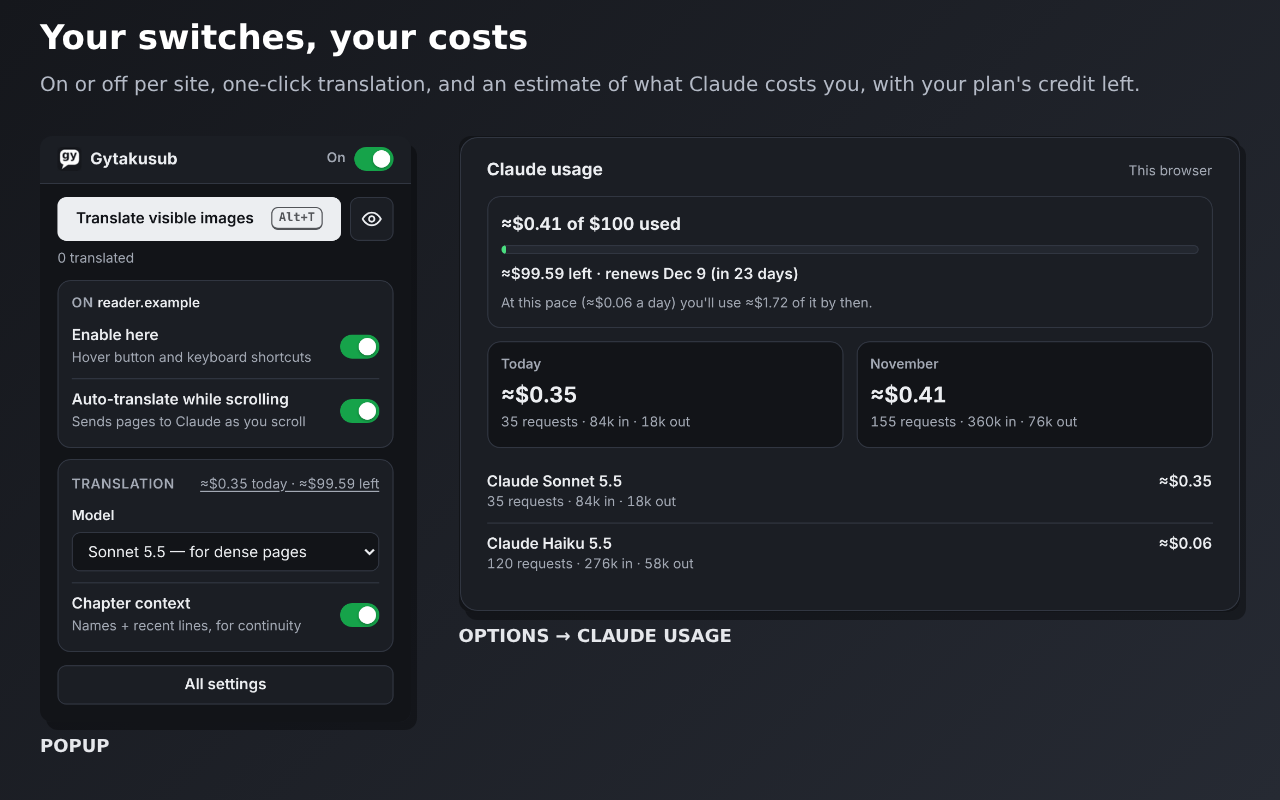
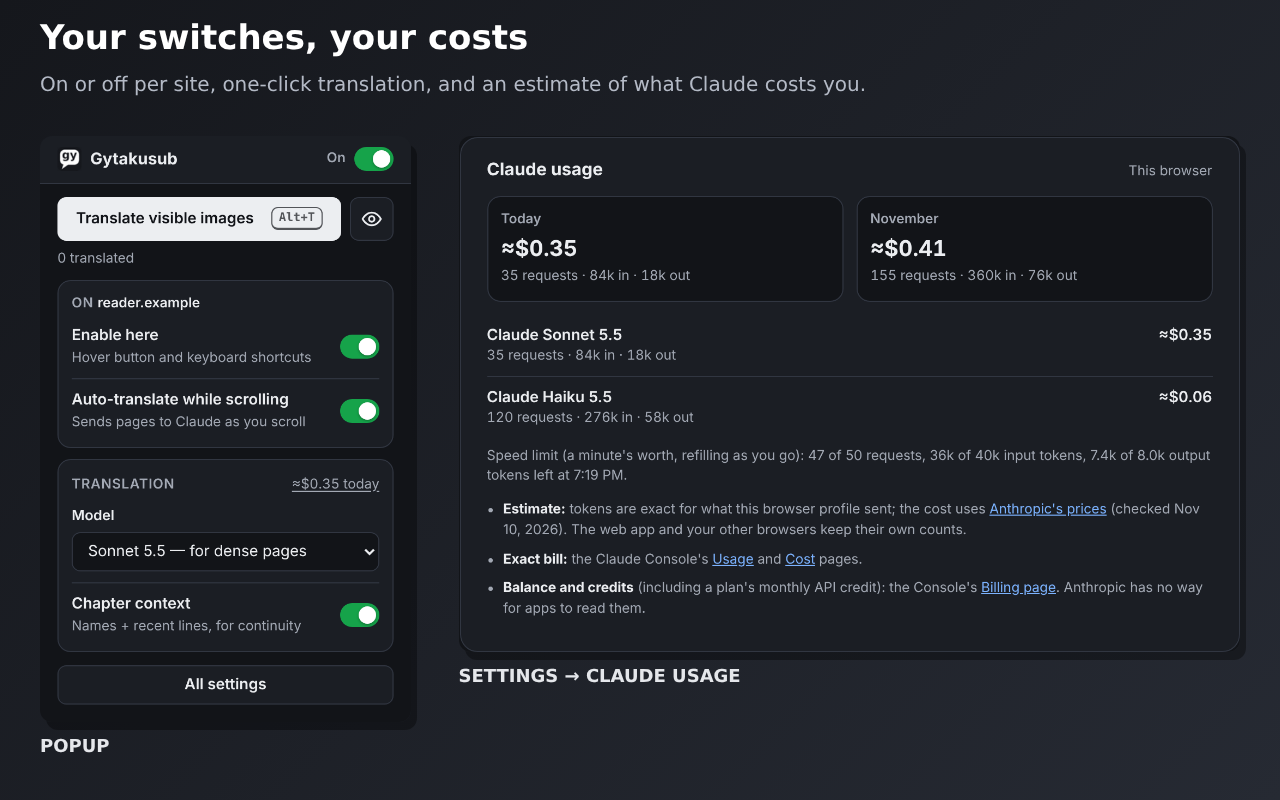
2.7.0: remove the monthly API credit meter
The meter subtracted only this browser's spending from an amount the
user typed, so with the web app or another browser in use "left" was
always too high, and nothing can correct it: no Anthropic API returns a
balance, plan or promotional credit (the Usage & Cost Admin API reports
usage and cost only, and isn't available to individual accounts).

- Extension and web app: plan, amount and renewal fields, the meter
  and "≈$… left" are gone; Claude usage links the Console's Billing
  page for the balance. Old values are removed on update / ignored.
- Store screenshot 5 regenerated (usage card now shows its notes).
- ADR 0007 updated; privacy policy, READMEs, listing, changelog.

Claude-Session: https://claude.ai/code/session_01HC7DG1xgeqgY9rhdzbcHRJ

diff --git a/extension/usage.js b/extension/usage.js
@@ -131,72 +131,11 @@ export function summary(log, at = Date.now()) {
   };
 }
 
-// ---------- the monthly API credit of a Max or Team plan ----------
-// Anthropic: Max 5x includes $100 and Max 20x $200 of Claude API credit a month (Team: up to $500,
-// pooled); the credit refreshes each billing cycle with no rollover, is spent before purchased
-// credits, and when it is gone (and nothing was bought) API requests stop until the next credit.
-// There is no API for the balance: the Console's Billing page shows the amount and expiry date.
-// So the reader tells the app the plan and the renewal date, and the app sets this browser's own
-// spending against it.
-export const CREDIT_SOURCE = "https://platform.claude.com/docs/en/about-claude/api-credits-for-subscribers";
-export const CREDIT_PLANS = [
-  { id: "none", label: "None, or I pay as I go", amount: 0 },
-  { id: "max5x", label: "Claude Max 5x: $100 a month", amount: 100 },
-  { id: "max20x", label: "Claude Max 20x: $200 a month", amount: 200 },
-  { id: "custom", label: "Team or another amount", amount: null },
-];
-
-/** The monthly credit in USD from settings {creditPlan, creditCustom}, or 0. */
-export function creditAmount(settings = {}) {
-  const plan = CREDIT_PLANS.find((p) => p.id === settings.creditPlan);
-  if (!plan) return 0;
-  return plan.amount ?? Math.max(0, Number(settings.creditCustom) || 0);
-}
-
-/**
- * This browser's spending against the monthly credit, or null when no credit is set.
- * {amount, used, left, share, start, renews, daysLeft, pace, projected, runsOut, guessedDate}
- * - The cycle ends on the renewal date the reader gave ("YYYY-MM-DD"; a past one moves on by
- *   months); without one, the calendar month is assumed (guessedDate: true).
- * - pace: USD a day over the last seven days of the cycle (fewer early in a cycle).
- * - runsOut: the day the credit would run out at that pace, if before the renewal.
- */
-export function creditStatus(log, settings, at = Date.now()) {
-  const amount = creditAmount(settings);
-  if (!amount) return null;
-  const now = new Date(at);
-  let renews = /^\d{4}-\d{2}-\d{2}$/.test(settings.creditRenews || "") ? new Date(settings.creditRenews + "T00:00:00Z") : null;
-  const guessedDate = !renews;
-  if (!renews) renews = new Date(Date.UTC(now.getUTCFullYear(), now.getUTCMonth() + 1, 1));
-  while (renews <= now) renews = new Date(Date.UTC(renews.getUTCFullYear(), renews.getUTCMonth() + 1, renews.getUTCDate()));
-  const start = new Date(Date.UTC(renews.getUTCFullYear(), renews.getUTCMonth() - 1, renews.getUTCDate()));
-  const days = (from) => Object.keys(log?.days || {}).filter((d) => d >= utcDay(from) && d <= utcDay(at));
-  const used = totals(log, days(start)).cost;
-  const span = Math.min(7, Math.max(1, (at - start) / 864e5));
-  const pace = totals(log, days(Math.max(+start, at - span * 864e5))).cost / span;
-  const daysLeft = (renews - at) / 864e5;
-  const left = Math.max(0, amount - used);
-  const runsOutIn = pace > 0 ? left / pace : Infinity;
-  return {
-    amount, used, left, share: Math.min(1, used / amount), start, renews, daysLeft: Math.ceil(daysLeft), pace,
-    projected: used + pace * daysLeft, runsOut: used >= amount ? now : runsOutIn < daysLeft ? new Date(at + runsOutIn * 864e5) : null, guessedDate,
-  };
-}
-
-/** The credit in plain words: {headline, left, pace, state}. */
-export function creditWords(c, fmtDate = (d) => d.toLocaleDateString([], { month: "short", day: "numeric", timeZone: "UTC" })) {
-  const inDays = (n) => (n <= 1 ? "tomorrow" : `in ${n} days`);
-  const renew = `${c.guessedDate ? "probably renews" : "renews"} ${fmtDate(c.renews)} (${inDays(c.daysLeft)})`;
-  if (c.used >= c.amount) {
-    return { headline: `≈${fmtUsd(c.used)} of ${fmtUsd(c.amount)} used`, left: `Used up: ${renew}`, pace: "Claude now uses any credits you bought. With none left, requests stop until it renews.", state: "Used up" };
-  }
-  const pace = c.pace > 0
-    ? c.runsOut
-      ? `At this pace (≈${fmtUsd(c.pace)} a day) it runs out around ${fmtDate(c.runsOut)}, before it renews.`
-      : `At this pace (≈${fmtUsd(c.pace)} a day) you'll use ≈${fmtUsd(c.projected)} of it by then.`
-    : "Nothing spent in the last few days.";
-  return { headline: `≈${fmtUsd(c.used)} of ${fmtUsd(c.amount)} used`, left: `≈${fmtUsd(c.left)} left · ${renew}`, pace, state: c.runsOut ? "Runs out early" : c.share >= 0.8 ? "Almost used" : "" };
-}
+// No monthly-credit tracking: Anthropic has no way for an app to read a balance, plan or
+// promotional credit (the Usage & Cost Admin API reports usage and cost only, needs an Admin
+// key, and isn't available to individual Console accounts). A meter fed by this browser's own
+// records would overstate what's left whenever the web app or another browser also translates,
+// so the panel shows exact spend here and points to the Console's Billing page for the balance.
 
 /** The rate limit in plain words, or "" (headers from the last answer, at most five minutes old). */
 export function limitWords(limits, fmtTime = (t) => new Date(t).toLocaleTimeString([], { hour: "numeric", minute: "2-digit" })) {

diff --git a/web/app.js b/web/app.js
@@ -2,7 +2,7 @@
 import { loadSettings, saveSettings, loadImage, blobToDataUrl, translateImage, renderPage, testKey } from "./translator.js";
 import { isConnected, connectFetcher, loadChapter, fetchPageImage, generateKey, connectionLink, readConnectionLink, fetcherBase, usageToday, onUsage, resetTime, FREE_DAILY, loadCloudUsage } from "./fetcher-client.js";
 import { MODELS } from "./prompt.js";
-import { summary, fmtUsd, fmtTokens, dayStart, PRICES_CHECKED, PRICE_SOURCE, CREDIT_PLANS, creditStatus, creditWords, limitWords } from "./usage.js";
+import { summary, fmtUsd, fmtTokens, dayStart, PRICES_CHECKED, PRICE_SOURCE, limitWords } from "./usage.js";
 import { readClaudeUsage, onClaudeUsage, clearClaudeUsage } from "./claude-usage.js";
 import qrcode from "./lib/qrcode.mjs";
 
@@ -131,34 +131,12 @@ function showClaudeUsage(log = readClaudeUsage()) {
   const speed = limitWords(limits);
   $("cuLimits").hidden = !speed;
   $("cuLimits").textContent = speed;
-  showCredit(log);
   $("cuChecked").textContent = new Date(PRICES_CHECKED + "T00:00:00Z").toLocaleDateString([], { day: "numeric", month: "short", year: "numeric", timeZone: "UTC" });
   $("cuPriceLink").href = PRICE_SOURCE;
   $("cuDayStart").textContent = dayStart();
   updateToolbar();
 }
 onClaudeUsage(showClaudeUsage);
-// The monthly API credit, with the form's values while Settings is open (a preview before Save).
-function creditSettings() {
-  return $("settings").open ? { creditPlan: $("sCreditPlan").value, creditCustom: $("sCreditCustom").value, creditRenews: $("sCreditRenews").value } : settings;
-}
-function showCredit(log = readClaudeUsage()) {
-  const c = creditStatus(log, creditSettings());
-  $("cuCredit").hidden = !c;
-  if (!c) return;
-  const w = creditWords(c);
-  $("cuCreditFigure").textContent = w.headline;
-  $("cuCreditState").textContent = w.state; $("cuCreditState").hidden = !w.state;
-  $("cuCreditLeft").textContent = w.left;
-  $("cuCreditPace").textContent = w.pace;
-  const m = $("cuCreditMeter");
-  m.setAttribute("aria-valuenow", Math.round(c.share * 100));
-  m.setAttribute("aria-valuetext", `${w.headline}. ${w.left}.`);
-  m.classList.toggle("warn", !!w.state); m.classList.toggle("used", c.used > 0);
-  m.firstElementChild.style.width = `${c.share * 100}%`;
-}
-$("sCreditPlan").innerHTML = CREDIT_PLANS.map((p) => `<option value="${p.id}">${p.label}</option>`).join("");
-for (const id of ["sCreditPlan", "sCreditCustom", "sCreditRenews"]) $(id).addEventListener("input", () => { $("sCreditCustomField").hidden = $("sCreditPlan").value !== "custom"; showCredit(); });
 $("cuClear").onclick = () => {
   if (!confirm("Clear this browser's Claude usage history? The Claude Console keeps its own records.")) return;
   clearClaudeUsage(); toast("Usage history cleared");
@@ -211,8 +189,7 @@ function updateToolbar() {
   $("toolbar").classList.toggle("hidden", list.length === 0);
   $("drop").classList.toggle("compact", currentMode === "shots" && list.length > 0);
   const today = summary(readClaudeUsage()).today;
-  const credit = creditStatus(readClaudeUsage(), settings);
-  $("progress").textContent = `${done} of ${list.length} translated${busy ? ` · ${busy} in progress` : ""}${today.requests ? ` · Claude today ≈ ${fmtUsd(today.cost)}` : ""}${credit ? ` · ≈${fmtUsd(credit.left)} credit left` : ""}`;
+  $("progress").textContent = `${done} of ${list.length} translated${busy ? ` · ${busy} in progress` : ""}${today.requests ? ` · Claude today ≈ ${fmtUsd(today.cost)}` : ""}`;
   $("pages").classList.toggle("spread", list.length > 1);
   $("pages").classList.toggle("rtl", !!settings.rtlSpreads);
 }
@@ -412,15 +389,12 @@ function fillSettings() {
   $("sApiKey").value = settings.apiKey; $("sModel").value = settings.model; $("sTargetLang").value = settings.targetLang;
   $("sGlossary").value = settings.glossary; $("sCustomPrompt").value = settings.customPrompt;
   $("sUseContext").checked = settings.useContext; $("sUppercase").checked = settings.uppercase; $("sRtl").checked = settings.rtlSpreads;
-  $("sCreditPlan").value = settings.creditPlan || "none"; $("sCreditCustom").value = settings.creditCustom || ""; $("sCreditRenews").value = settings.creditRenews || "";
-  $("sCreditCustomField").hidden = $("sCreditPlan").value !== "custom";
   $("sMsg").textContent = "";
 }
 function readSettings() {
   return { ...settings, apiKey: $("sApiKey").value.trim(), model: $("sModel").value, targetLang: $("sTargetLang").value.trim() || "English",
     glossary: $("sGlossary").value, customPrompt: $("sCustomPrompt").value, useContext: $("sUseContext").checked,
-    uppercase: $("sUppercase").checked, rtlSpreads: $("sRtl").checked,
-    creditPlan: $("sCreditPlan").value, creditCustom: Number($("sCreditCustom").value) || 0, creditRenews: $("sCreditRenews").value };
+    uppercase: $("sUppercase").checked, rtlSpreads: $("sRtl").checked };
 }
 $("btnSettings").onclick = () => { fillSettings(); dlg.showModal(); };
 $("sShow").onclick = () => { const i = $("sApiKey"); i.type = i.type === "password" ? "text" : "password"; $("sShow").textContent = i.type === "password" ? "Show" : "Hide"; };

diff --git a/extension/options.html b/extension/options.html
@@ -16,7 +16,6 @@
   .card > .lede { color: var(--muted); font-size: var(--t-caption); margin-bottom: var(--s2); }
   .card .field { padding: var(--s3) 0; }
   .card .field + .field, .card .field + .option, .card .option + .field { border-top: 1px solid var(--border); }
-  .card .credit-fields .field { padding: var(--s2) 0; border-top: 0; }
   .option .btn { flex: none; }
   .savebar { position: sticky; bottom: 0; z-index: 1; margin-top: var(--s5); border-top: 1px solid var(--border); background: var(--surface); }
   .savebar-inner { max-width: 980px; margin: 0 auto; padding: var(--s3) var(--s4); display: flex; align-items: center; justify-content: flex-end; gap: var(--s3); }
@@ -93,12 +92,6 @@
 
       <section class="card" id="sec-usage" aria-labelledby="h-usage">
         <div class="sec-head"><h2 id="h-usage">Claude usage</h2><span class="source-badge">This browser</span></div>
-        <div id="cuCredit" class="credit" hidden>
-          <p class="credit-figure"><span id="cuCreditFigure"></span> <span id="cuCreditState" class="state-badge" hidden></span></p>
-          <div id="cuCreditMeter" class="meter" role="meter" aria-label="Monthly API credit used" aria-valuemin="0" aria-valuemax="100" aria-valuenow="0"><span class="meter-fill"></span></div>
-          <p id="cuCreditLeft" class="credit-left"></p>
-          <p id="cuCreditPace" class="hint"></p>
-        </div>
         <div class="stats">
           <div class="stat"><span class="stat-label">Today</span><span class="stat-value" id="cuTodayCost">$0</span><span class="stat-sub" id="cuTodaySub">No requests yet</span></div>
           <div class="stat"><span class="stat-label" id="cuMonthLabel">This month</span><span class="stat-value" id="cuMonthCost">$0</span><span class="stat-sub" id="cuMonthSub">No requests yet</span></div>
@@ -108,14 +101,9 @@
         <ul class="facts">
           <li><b>Estimate:</b> tokens are exact for what this browser profile sent; the cost uses <a id="cuPriceLink" href="https://platform.claude.com/docs/en/about-claude/pricing" target="_blank" rel="noopener">Anthropic's prices</a> (checked <span id="cuChecked"></span>). The web app and your other browsers keep their own counts.</li>
           <li><b>Exact bill:</b> the Claude Console's <a href="https://platform.claude.com/usage" target="_blank" rel="noopener">Usage</a> and <a href="https://platform.claude.com/cost" target="_blank" rel="noopener">Cost</a> pages.</li>
+          <li><b>Balance and credits</b> (including a plan's monthly API credit): the Console's <a href="https://platform.claude.com/settings/billing" target="_blank" rel="noopener">Billing page</a>. Anthropic has no way for apps to read them.</li>
           <li><b>Days</b> start at <span id="cuDayStart">midnight UTC</span> your time (midnight UTC), like Anthropic's usage reports.</li>
         </ul>
-        <div class="credit-fields">
-          <div class="field"><label class="field-label" for="creditPlan">Monthly API credit</label><select id="creditPlan"></select></div>
-          <div class="field" id="creditCustomField" hidden><label class="field-label" for="creditCustom">Amount, USD a month</label><input id="creditCustom" type="number" min="0" step="1" inputmode="decimal" /></div>
-          <div class="field"><label class="field-label" for="creditRenews">Renews on</label><input id="creditRenews" type="date" /></div>
-        </div>
-        <p class="hint">Claude Max and Team plans include API credit each month (<a href="https://platform.claude.com/docs/en/about-claude/api-credits-for-subscribers" target="_blank" rel="noopener">Anthropic</a>). The Claude Console's <a href="https://platform.claude.com/settings/billing" target="_blank" rel="noopener">Billing page</a> shows it under Promotional credits with its expiry date: that's the renewal date to put here.</p>
         <div class="row-end"><button id="cuClear" class="btn small danger" type="button">Clear usage history</button></div>
       </section>
 

diff --git a/web/index.html b/web/index.html
@@ -262,12 +262,6 @@
       </section>
       <section class="group" aria-labelledby="sgUsage">
         <div class="sec-head"><h3 id="sgUsage">Claude usage</h3><span class="source-badge">This browser</span></div>
-        <div id="cuCredit" class="credit" hidden>
-          <p class="credit-figure"><span id="cuCreditFigure"></span> <span id="cuCreditState" class="state-badge" hidden></span></p>
-          <div id="cuCreditMeter" class="meter" role="meter" aria-label="Monthly API credit used" aria-valuemin="0" aria-valuemax="100" aria-valuenow="0"><span class="meter-fill"></span></div>
-          <p id="cuCreditLeft" class="credit-left"></p>
-          <p id="cuCreditPace" class="hint"></p>
-        </div>
         <div class="stats">
           <div class="stat"><span class="stat-label">Today</span><span class="stat-value" id="cuTodayCost">$0</span><span class="stat-sub" id="cuTodaySub">No requests yet</span></div>
           <div class="stat"><span class="stat-label" id="cuMonthLabel">This month</span><span class="stat-value" id="cuMonthCost">$0</span><span class="stat-sub" id="cuMonthSub">No requests yet</span></div>
@@ -277,14 +271,9 @@
         <ul class="usage-facts small">
           <li><b>Estimate:</b> tokens are exact for what this browser sent; the cost uses <a id="cuPriceLink" href="https://platform.claude.com/docs/en/about-claude/pricing" target="_blank" rel="noopener">Anthropic's prices ↗</a> (checked <span id="cuChecked"></span>). The extension and your other devices keep their own counts.</li>
           <li><b>Exact bill:</b> the Claude Console's <a href="https://platform.claude.com/usage" target="_blank" rel="noopener">Usage ↗</a> and <a href="https://platform.claude.com/cost" target="_blank" rel="noopener">Cost ↗</a> pages.</li>
+          <li><b>Balance and credits</b> (including a plan's monthly API credit): the Console's <a href="https://platform.claude.com/settings/billing" target="_blank" rel="noopener">Billing page ↗</a>. Anthropic has no way for apps to read them.</li>
           <li><b>Days</b> start at <span id="cuDayStart">midnight UTC</span> your time (midnight UTC), like Anthropic's usage reports.</li>
         </ul>
-        <div class="credit-fields">
-          <label class="field">Monthly API credit <select id="sCreditPlan" name="credit-plan"></select></label>
-          <label class="field" id="sCreditCustomField" hidden>Amount, USD a month <input id="sCreditCustom" name="credit-amount" type="number" min="0" step="1" inputmode="decimal" /></label>
-          <label class="field">Renews on <input id="sCreditRenews" name="credit-renews" type="date" /></label>
-        </div>
-        <p class="hint">Claude Max and Team plans include API credit each month (<a href="https://platform.claude.com/docs/en/about-claude/api-credits-for-subscribers" target="_blank" rel="noopener">Anthropic ↗</a>). The Claude Console's <a href="https://platform.claude.com/settings/billing" target="_blank" rel="noopener">Billing page ↗</a> shows it under Promotional credits with its expiry date: that's the renewal date to put here.</p>
         <div class="row"><button type="button" id="cuClear" class="btn small danger">Clear usage history</button></div>
       </section>
       <section class="group" aria-labelledby="sgTranslate">

diff --git a/extension/options.js b/extension/options.js
@@ -5,10 +5,10 @@
 import { getSettings } from "./settings.js";
 import { apiHeaders, API_URL } from "./prompt.js";
 import { consentGiven, withdrawConsent, hasAccess, requestAccess, ALL_SITES, openWelcome } from "./access.js";
-import { addCall, emptyLog, limitsOf, explainApiError, summary, fmtUsd, fmtTokens, dayStart, PRICES_CHECKED, PRICE_SOURCE, CREDIT_PLANS, creditStatus, creditWords, limitWords } from "./usage.js";
+import { addCall, emptyLog, limitsOf, explainApiError, summary, fmtUsd, fmtTokens, dayStart, PRICES_CHECKED, PRICE_SOURCE, limitWords } from "./usage.js";
 
 const $ = (id) => document.getElementById(id);
-const FIELDS = ["model", "targetLang", "glossary", "customPrompt", "fontFamily", "excludedSites", "creditPlan", "creditCustom", "creditRenews"];
+const FIELDS = ["model", "targetLang", "glossary", "customPrompt", "fontFamily", "excludedSites"];
 const CHECKS = ["useContext", "includeSource", "uppercase", "syncApiKey", "debugOverlay", "peekOnHover", "useGpu"];
 
 function show(kind, text) {
@@ -36,7 +36,6 @@ async function load() {
   loaded = true;
   for (const id of ["save", "testKey"]) $(id).disabled = false;
   markDirty(false);
-  showCredit();
 }
 
 async function save() {
@@ -85,31 +84,11 @@ function showUsage(log) {
   $("cuLimits").hidden = !speed;
   $("cuLimits").textContent = speed;
   lastLog = log;
-  showCredit();
   $("cuChecked").textContent = new Date(PRICES_CHECKED + "T00:00:00Z").toLocaleDateString([], { day: "numeric", month: "short", year: "numeric", timeZone: "UTC" });
   $("cuPriceLink").href = PRICE_SOURCE;
   $("cuDayStart").textContent = dayStart();
 }
 let lastLog = null;
-// The monthly API credit, from the form (so a change shows before Save).
-function showCredit() {
-  const c = creditStatus(lastLog?.v === 1 ? lastLog : emptyLog(), { creditPlan: $("creditPlan").value, creditCustom: $("creditCustom").value, creditRenews: $("creditRenews").value });
-  $("creditCustomField").hidden = $("creditPlan").value !== "custom";
-  $("cuCredit").hidden = !c;
-  if (!c) return;
-  const w = creditWords(c);
-  $("cuCreditFigure").textContent = w.headline;
-  $("cuCreditState").textContent = w.state; $("cuCreditState").hidden = !w.state;
-  $("cuCreditLeft").textContent = w.left;
-  $("cuCreditPace").textContent = w.pace;
-  const m = $("cuCreditMeter");
-  m.setAttribute("aria-valuenow", Math.round(c.share * 100));
-  m.setAttribute("aria-valuetext", `${w.headline}. ${w.left}.`);
-  m.classList.toggle("warn", !!w.state); m.classList.toggle("used", c.used > 0);
-  m.firstElementChild.style.width = `${c.share * 100}%`;
-}
-$("creditPlan").innerHTML = CREDIT_PLANS.map((p) => `<option value="${p.id}">${p.label}</option>`).join("");
-for (const id of ["creditPlan", "creditCustom", "creditRenews"]) $(id).addEventListener("input", showCredit);
 chrome.storage.local.get({ claudeUsage: null }).then(({ claudeUsage }) => showUsage(claudeUsage));
 // the rate-limit line goes stale after five minutes without an answer
 setInterval(() => chrome.storage.local.get({ claudeUsage: null }).then(({ claudeUsage }) => showUsage(claudeUsage)), 60e3);

diff --git a/extension/popup.js b/extension/popup.js
@@ -2,7 +2,7 @@
 // service worker may be busy analysing a page for seconds (see settings.js), and
 // the popup must show the real settings the moment it opens.
 import { getSettings, ensureContentScript } from "./settings.js";
-import { summary, fmtUsd, creditStatus } from "./usage.js";
+import { summary, fmtUsd } from "./usage.js";
 import { consentGiven, hasAccess, requestAccess, openWelcome } from "./access.js";
 
 const $ = (id) => document.getElementById(id);
@@ -135,18 +135,13 @@ $("openSetup").onclick = () => { openWelcome(); window.close(); };
 $("allowAccess").onclick = () => { ensureAccess().then((ok) => { if (!ok) $("state").textContent = NO_ACCESS; else init(); }); };
 $("openOptions2").onclick = (e) => { e.preventDefault(); chrome.runtime.openOptionsPage(); };
 
-/** Today's Claude cost on this browser and the monthly credit left, next to the model (details: Options → Claude usage). */
-let usageLog = null, creditPrefs = {};
-function showUsage(log = usageLog) {
-  usageLog = log;
-  const today = summary(log?.v === 1 ? log : null).today, credit = creditStatus(log?.v === 1 ? log : null, creditPrefs);
-  const parts = [today.requests && `≈${fmtUsd(today.cost)} today`, credit && `≈${fmtUsd(credit.left)} left`].filter(Boolean);
-  $("usageToday").hidden = !parts.length;
-  $("usageToday").textContent = parts.join(" · ");
-  const spoken = [today.requests && `about ${fmtUsd(today.cost)} today`, credit && `about ${fmtUsd(credit.left)} of the monthly API credit left`].filter(Boolean);
-  $("usageToday").setAttribute("aria-label", spoken.length ? `Claude usage: ${spoken.join(", ")}. Open details.` : "");
+/** Today's Claude cost on this browser, next to the model (details: Settings → Claude usage). */
+function showUsage(log) {
+  const today = summary(log?.v === 1 ? log : null).today;
+  $("usageToday").hidden = !today.requests;
+  $("usageToday").textContent = today.requests ? `≈${fmtUsd(today.cost)} today` : "";
+  $("usageToday").setAttribute("aria-label", today.requests ? `Claude usage: about ${fmtUsd(today.cost)} today. Open details.` : "");
 }
-getSettings().then((s) => { creditPrefs = s; showUsage(); });
 chrome.storage.local.get({ claudeUsage: null }).then(({ claudeUsage }) => showUsage(claudeUsage));
 chrome.storage.onChanged.addListener((changes, area) => { if (area === "local" && changes.claudeUsage) showUsage(changes.claudeUsage.newValue); });
 $("usageToday").onclick = () => chrome.tabs.create({ url: chrome.runtime.getURL("options.html#sec-usage") });

diff --git a/web/privacy.html b/web/privacy.html
@@ -28,7 +28,6 @@
   <li><strong>Your API key.</strong> Stored in your browser's extension storage (device-local by default; optionally in your browser's sync storage if you turn that on) or, in the web app, in the browser's localStorage. It is sent only to <code>api.anthropic.com</code> as the authentication header.</li>
   <li><strong>Settings, glossary, and chapter context.</strong> Your model choice, target language, glossary, list of enabled sites, and the names and recent translated lines used for consistency are stored locally in the browser (and in browser sync storage for settings, if your browser syncs). Chapter context is per tab and discarded when the tab closes.</li>
   <li><strong>Claude usage figures.</strong> For each Claude answer, the model name, its token counts (input, output, cache reads and writes) and, when the browser can read them, Anthropic's rate-limit headers are kept in the extension's local storage or the web app's localStorage, for at most 62 days, to show what translating costs (an estimate from Anthropic's published prices). They come from Anthropic's own answers to your requests, are never sent anywhere, and can be cleared at any time (Options or Settings → Claude usage → Clear usage history).</li>
-  <li><strong>Monthly API credit settings.</strong> If you enter your plan's monthly API credit and its renewal date, they are kept with your other settings in the browser (the extension's sync storage, or the web app's localStorage) to show how much of the credit this browser has used. They are never sent anywhere. Gytakusub doesn't read your Anthropic account; you copy the date from the Claude Console's Billing page.</li>
   <li><strong>Auto-translate's spending guard.</strong> On a site with auto-translate on, the extension counts, on that tab and only in memory, how many pages Claude translated in the last 10 minutes, and pauses after 100 until you choose Continue.</li>
   <li><strong>Your agreement.</strong> The extension keeps the date you agreed on its setup page, in its local storage, so it doesn't ask again. Withdrawing deletes it.</li>
   <li><strong>Translation cache.</strong> Translations are cached in browser session storage so re-opening a page does not cost tokens; the cache is cleared when the browser closes.</li>

diff --git a/extension/ui.css b/extension/ui.css
@@ -93,16 +93,4 @@ div.option { cursor: default; }
 .row-end { display: flex; justify-content: flex-end; gap: var(--s2); }
 .btn.danger { color: var(--danger); }
 
-/* the monthly API credit: figure, meter, what's left and when it renews, the pace */
-.credit { display: grid; gap: var(--s2); margin-top: var(--s3); padding: var(--s3); border: 1px solid var(--border); border-radius: var(--r2); }
-.credit p { margin: 0; }
-.credit-figure { font-size: var(--t-h2); font-weight: 700; font-variant-numeric: tabular-nums; display: flex; flex-wrap: wrap; align-items: center; gap: var(--s2); }
-.credit-left { font-weight: 600; font-variant-numeric: tabular-nums; }
-.state-badge { padding: 2px var(--s2); border-radius: 999px; font-size: var(--t-caption); font-weight: 600; color: var(--danger); border: 1px solid currentColor; }
-.meter { height: 8px; border-radius: 4px; background: var(--surface-2); box-shadow: inset 0 0 0 1px var(--border); overflow: hidden; }
-.meter-fill { display: block; height: 100%; width: 0; border-radius: inherit; background: var(--ok); transition: width .3s ease; }
-.meter.used .meter-fill { min-width: 4px; }
-.meter.warn .meter-fill { background: var(--danger); }
-.credit-fields { display: grid; gap: 0 var(--s4); grid-template-columns: 1fr; margin-top: var(--s2); }
-@media (min-width: 600px) { .credit-fields { grid-template-columns: 1fr 1fr; } }
 input[type=number], input[type=date] { width: 100%; min-height: 36px; padding: 7px 10px; border-radius: var(--r1); border: 1px solid var(--border); background: var(--bg); color: var(--fg); font: inherit; }

diff --git a/web/style.css b/web/style.css
@@ -207,14 +207,6 @@ input:focus-visible, textarea:focus-visible, select:focus-visible { outline-offs
 .meter.warn .meter-fill { background: var(--danger); }
 .usage-facts { margin: 0; padding-left: 1.2em; display: grid; gap: var(--s2); color: var(--muted); }
 .usage-facts b { color: var(--fg); }
-/* the monthly API credit: figure, meter, what's left and when it renews, the pace */
-.credit { display: grid; gap: var(--s2); padding: var(--s3); border: 1px solid var(--border); border-radius: var(--r2); }
-.credit p { margin: 0; }
-.credit-figure { font-size: var(--t-h3); font-weight: 700; font-variant-numeric: tabular-nums; display: flex; flex-wrap: wrap; align-items: center; gap: var(--s2); }
-.credit-left { font-weight: 600; font-variant-numeric: tabular-nums; }
-.state-badge { padding: 2px var(--s2); border-radius: 999px; font-size: var(--t-caption); font-weight: 600; color: var(--danger); border: 1px solid currentColor; }
-.credit-fields { display: grid; gap: var(--s3); grid-template-columns: 1fr; }
-@media (min-width: 640px) { .credit-fields { grid-template-columns: 1fr 1fr; } }
 /* Claude usage: two stat tiles (today, this month), then one row per model */
 .stats { display: grid; grid-template-columns: 1fr 1fr; gap: var(--s3); }
 .stat { display: grid; gap: 2px; padding: var(--s3); border: 1px solid var(--border); border-radius: var(--r2); background: var(--bg); min-width: 0; }

diff --git a/web/translator.js b/web/translator.js
@@ -33,9 +33,6 @@ export const DEFAULT_SETTINGS = {
   uppercase: false,
   fontFamily: "",
   rtlSpreads: true,
-  creditPlan: "none", // a Max or Team plan's monthly Claude API credit (usage.js CREDIT_PLANS)
-  creditCustom: 0, // USD a month, for creditPlan "custom"
-  creditRenews: "", // YYYY-MM-DD, from the Console's Billing page
   fetcherUrl: "", // your chapter fetcher (fetcher/worker.js on Cloudflare), e.g. https://gytakusub.<you>.workers.dev
   fetcherKey: "", // its access key (the Worker's GYT_KEY secret)
   maxLongEdge: 1600,
@@ -45,7 +42,11 @@ export const DEFAULT_SETTINGS = {
 
 const SETTINGS_KEY = "gytakusub.settings";
 export function loadSettings() {
-  try { return { ...DEFAULT_SETTINGS, ...JSON.parse(localStorage.getItem(SETTINGS_KEY) || "{}") }; }
+  try {
+    // creditPlan/creditCustom/creditRenews: the monthly-credit fields removed in 2.7.0 (see usage.js)
+    const { creditPlan, creditCustom, creditRenews, ...saved } = JSON.parse(localStorage.getItem(SETTINGS_KEY) || "{}");
+    return { ...DEFAULT_SETTINGS, ...saved };
+  }
   catch { return { ...DEFAULT_SETTINGS }; }
 }
 export function saveSettings(s) {

diff --git a/extension/background.js b/extension/background.js
@@ -71,6 +71,7 @@ chrome.runtime.onInstalled.addListener(async ({ reason, previousVersion }) => {
   // A new user sees what is sent where, and agrees, first. On an update, only someone who never
   // saw this page (coming from before 2.7.0) or who agreed to an older version of it; not someone
   // who withdrew on purpose.
+  if (reason === "update") chrome.storage.sync.remove(["creditPlan", "creditCustom", "creditRenews"]).catch(() => {}); // the monthly-credit fields removed in 2.7.0
   const { consent } = await chrome.storage.local.get("consent");
   if (reason === "install" && !consent) openWelcome();
   if (reason === "update" && (consent ? (consent.version || 0) < CONSENT_VERSION : olderThan(previousVersion, "2.7.0"))) openWelcome("#update");

diff --git a/extension/settings.js b/extension/settings.js
@@ -25,9 +25,6 @@ export const DEFAULT_SETTINGS = {
   excludedSites: "",
   debugOverlay: false, // draw detection boxes and log results (for diagnosing placement)
   useGpu: true, // run the page models on the GPU (WebGPU) when the browser offers one; CPU otherwise
-  creditPlan: "none", // a Max or Team plan's monthly Claude API credit (usage.js CREDIT_PLANS)
-  creditCustom: 0, // USD a month, for creditPlan "custom"
-  creditRenews: "", // YYYY-MM-DD, from the Console's Billing page
   peekOnHover: false, // hovering a translated bubble shows the original lettering (off by default: it flickers while reading)
   // Image prep
   maxLongEdge: 1600, // px sent to Claude for a normal page
